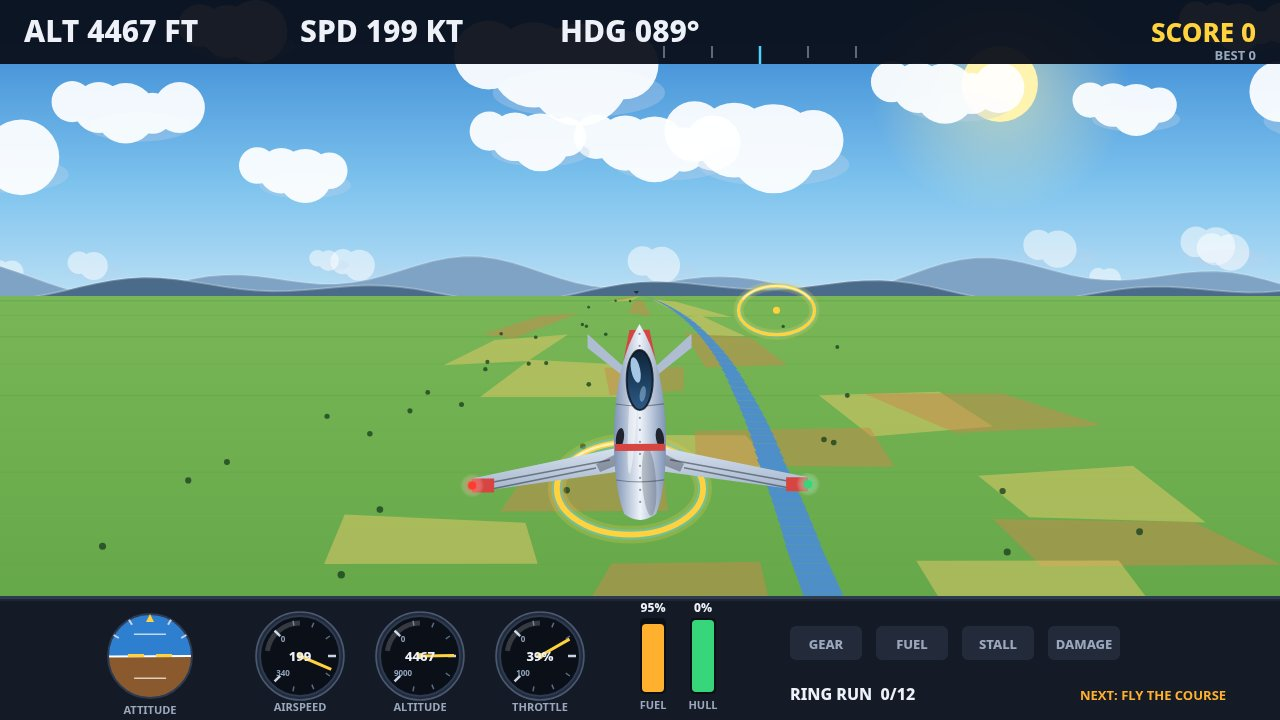
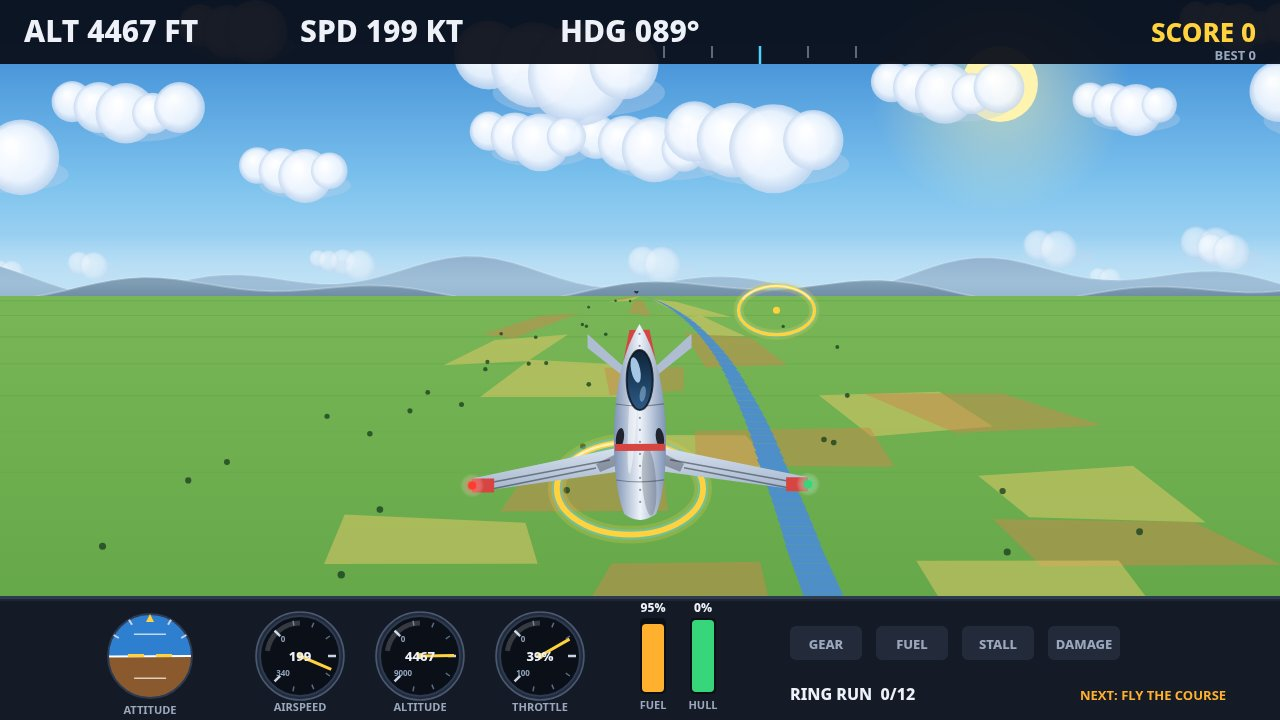
v5: volumetric clouds (day), horizon haze, wind streaks at speed, softer ground stripes

diff --git a/game/src/render.js b/game/src/render.js
@@ -120,16 +120,36 @@ export function createRenderer(canvas) {
       ctx.beginPath();
       ctx.ellipse(cx, cy + c.s * 0.22, c.s * 1.05, c.s * 0.3, 0, 0, Math.PI * 2);
       ctx.fill();
-      ctx.fillStyle = cloudFill;
-      ctx.beginPath();
-      for (let p = 0; p < c.puffs; p += 1) {
-        const px = cx + (p - c.puffs / 2) * c.s * 0.55;
-        const py = cy - Math.abs(p - c.puffs / 2) * c.s * 0.12;
-        const pr = c.s * (0.42 + 0.1 * ((p * 37) % 3));
-        ctx.moveTo(px + pr, py);
-        ctx.arc(px, py, pr, 0, Math.PI * 2);
+      // Each puff is shaded on its own: a lit top fading to a cool base,
+      // so the cloud reads as a volume, not a flat white blob. At night
+      // the same trick turns each puff into a glass bubble, so night
+      // clouds stay one flat mass, as before.
+      if (m.night) {
+        ctx.fillStyle = cloudFill;
+        ctx.beginPath();
+        for (let p = 0; p < c.puffs; p += 1) {
+          const px = cx + (p - c.puffs / 2) * c.s * 0.55;
+          const py = cy - Math.abs(p - c.puffs / 2) * c.s * 0.12;
+          const pr = c.s * (0.42 + 0.1 * ((p * 37) % 3));
+          ctx.moveTo(px + pr, py);
+          ctx.arc(px, py, pr, 0, Math.PI * 2);
+        }
+        ctx.fill();
+      } else {
+        for (let p = 0; p < c.puffs; p += 1) {
+          const px = cx + (p - c.puffs / 2) * c.s * 0.55;
+          const py = cy - Math.abs(p - c.puffs / 2) * c.s * 0.12;
+          const pr = c.s * (0.42 + 0.1 * ((p * 37) % 3));
+          const pg = ctx.createRadialGradient(px - pr * 0.25, py - pr * 0.35, pr * 0.1, px, py, pr);
+          pg.addColorStop(0, 'rgba(255,255,255,0.98)');
+          pg.addColorStop(0.7, 'rgba(240,246,255,0.92)');
+          pg.addColorStop(1, 'rgba(198,216,240,0.85)');
+          ctx.fillStyle = pg;
+          ctx.beginPath();
+          ctx.arc(px, py, pr, 0, Math.PI * 2);
+          ctx.fill();
+        }
       }
-      ctx.fill();
       ctx.globalAlpha = 1;
     };
     for (const c of farClouds) drawCloud({ ...c, puffs: 2 }, 0.55);
@@ -174,8 +194,8 @@ export function createRenderer(canvas) {
     // tone so the ground reads as one valley, not a quilt.
     const band = 130;
     const offset = state.distance % band;
-    const stripeA = blend(m.groundA, m.groundB, 0.35);
-    const stripeB = blend(m.groundA, m.groundB, 0.65);
+    const stripeA = blend(m.groundA, m.groundB, 0.44);
+    const stripeB = blend(m.groundA, m.groundB, 0.56);
     for (let i = 0; i < 13; i += 1) {
       const dFar = 1500 - i * band - offset;
       const dNear = dFar + band;
@@ -882,11 +902,40 @@ export function createRenderer(canvas) {
     drawSky(state);
     ridge(state, FIELD.horizonY + 6, 46, state.mission.mountainFar, 1.3, 60, 'rgba(255,255,255,0.18)');
     ridge(state, FIELD.horizonY + 10, 30, state.mission.mountain, 4.1, 140, 'rgba(255,255,255,0.25)');
+    // Atmospheric haze: the far ridge fades into the sky at the horizon
+    // instead of ending in a hard dark silhouette.
+    const haze = ctx.createLinearGradient(0, FIELD.horizonY - 60, 0, FIELD.horizonY + 24);
+    haze.addColorStop(0, 'rgba(255,255,255,0)');
+    haze.addColorStop(0.55, state.mission.skyLow);
+    haze.addColorStop(1, 'rgba(255,255,255,0)');
+    ctx.globalAlpha = 0.4;
+    ctx.fillStyle = haze;
+    ctx.fillRect(0, FIELD.horizonY - 60, W, 84);
+    ctx.globalAlpha = 1;
     drawGround(state);
     drawRunway(state);
     const sorted = [...state.objects].sort((a, b) => (b.coursePos - state.distance) - (a.coursePos - state.distance));
     for (const obj of sorted) drawObject(state, obj);
     drawAircraft(state);
+    // Wind streaks: thin fast lines at the frame edges when the throttle
+    // is high, so speed reads even when the ground is far below.
+    const streak = Math.max(0, (state.speed - 200) / 130);
+    if (streak > 0) {
+      const n = Math.floor(streak * 14);
+      for (let i = 0; i < n; i += 1) {
+        const left = i % 2 === 0;
+        const sx = left
+          ? ((i * 197 + state.time * 900) % 180)
+          : W - ((i * 197 + state.time * 900) % 180);
+        const sy = 120 + ((i * 311) % 420);
+        ctx.strokeStyle = `rgba(255,255,255,${0.28 * streak})`;
+        ctx.lineWidth = 2;
+        ctx.beginPath();
+        ctx.moveTo(sx, sy);
+        ctx.lineTo(sx - (left ? -1 : 1) * (40 + streak * 40), sy + 6);
+        ctx.stroke();
+      }
+    }
     ctx.restore();
   }
 
